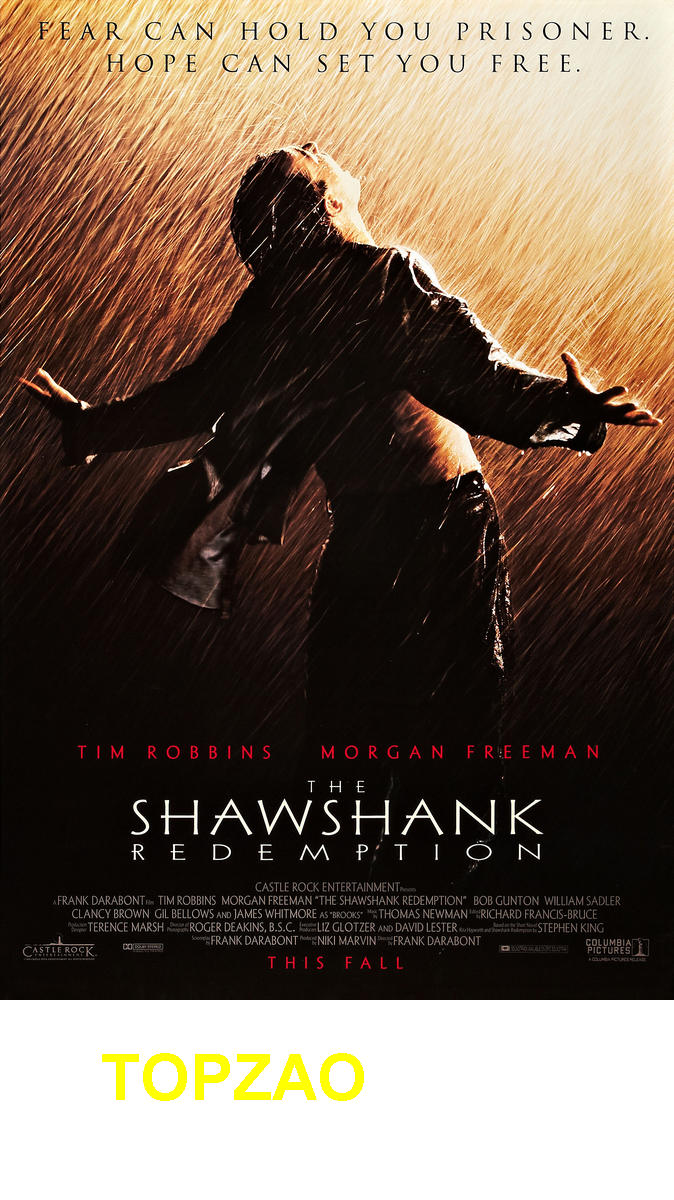
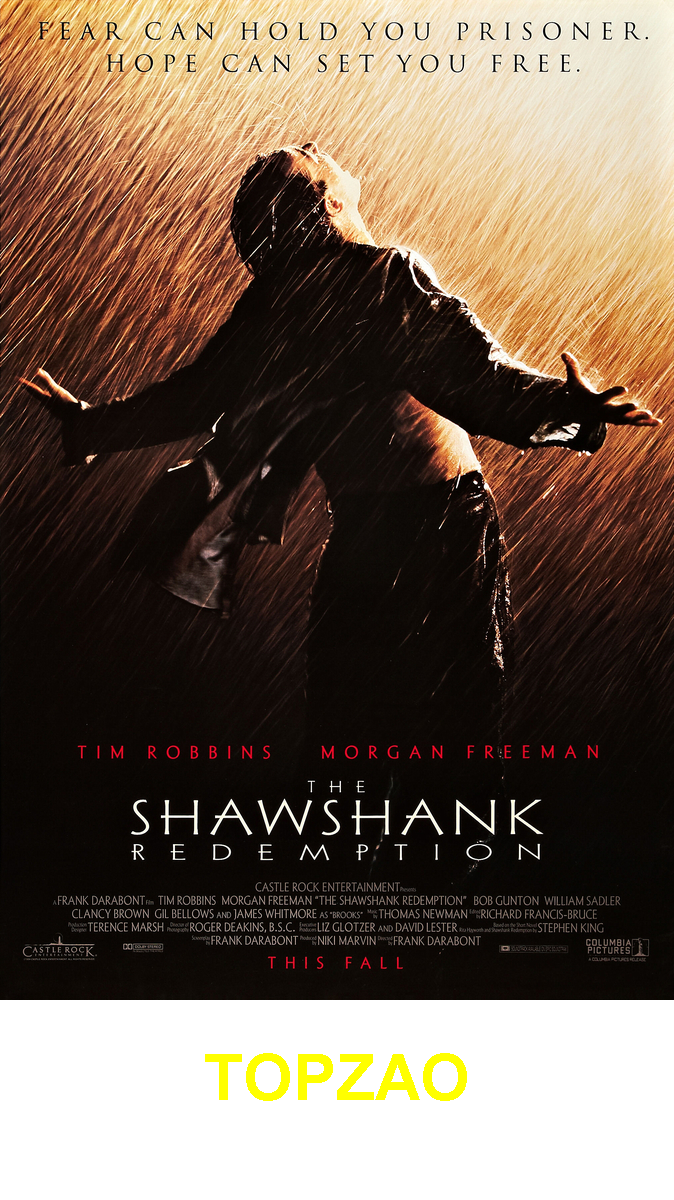
Desafio centralizar texto da figurinha

Changed region(s): [[0.1558, 0.8633, 0.7166, 0.925]]

diff --git a/src/ferna_stickers/GeradorDeFigurinhas.java b/src/ferna_stickers/GeradorDeFigurinhas.java
@@ -2,7 +2,9 @@ package ferna_stickers;
 
 import java.awt.Color;
 import java.awt.Font;
+import java.awt.FontMetrics;
 import java.awt.Graphics2D;
+import java.awt.geom.Rectangle2D;
 import java.awt.image.BufferedImage;
 import java.io.File;
 import java.io.InputStream;
@@ -40,7 +42,13 @@ public class GeradorDeFigurinhas {
 		
 		// escrever uma frase na nova imagem
 		
-		graphics.drawString("TOPZAO", 100, novaAltura - 100);
+		String texto = "TOPZAO";
+		FontMetrics fontMetrics = graphics.getFontMetrics();
+		Rectangle2D retangulo = fontMetrics.getStringBounds(texto, graphics);
+		int larguraTexto = (int) retangulo.getWidth();
+		int posicaoTextoX = (largura - larguraTexto)/2; // 4 linhas para centralizar o texto
+		
+		graphics.drawString(texto, posicaoTextoX, novaAltura - 100); // escrever o texto
 		
 		// escrever a nova imagem em um arquivo
 		
